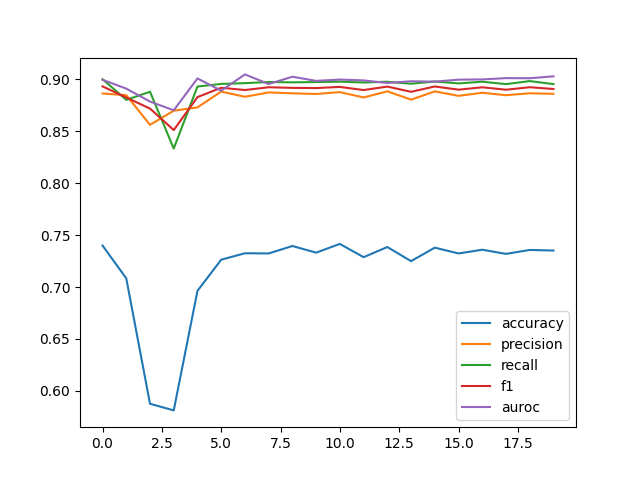
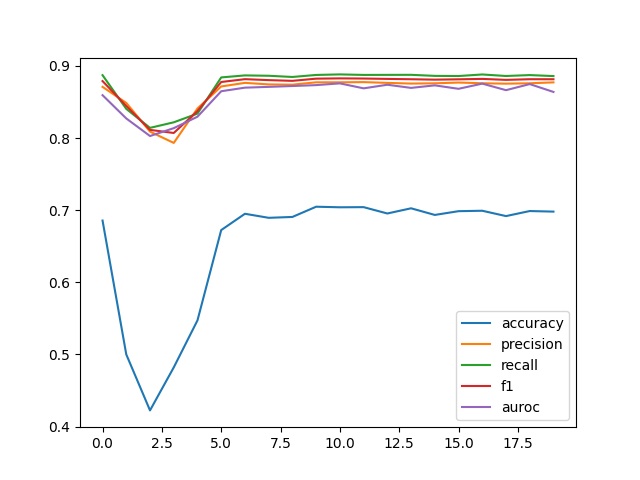
requirements.txt created and more plots

diff --git a/semisupervised/gnn.py b/semisupervised/gnn.py
@@ -13,8 +13,8 @@ class GNNq(nn.Module):
         opt_ = dict([('in', opt['num_feature']), ('out', opt['hidden_dim'])])
         self.m1 = GraphConvolution(opt_, adj)
 
-        # opt_ = dict([('in', opt['hidden_dim']), ('out', opt['hidden_dim'])])
-        # self.m3 = GraphConvolution(opt_, adj)
+        opt_ = dict([('in', opt['hidden_dim']), ('out', opt['hidden_dim'])])
+        self.m3 = GraphConvolution(opt_, adj)
 
         # opt_ = dict([('in', 2*opt['hidden_dim']), ('out', opt['hidden_dim'])])
         # self.m4 = GraphConvolution(opt_, adj)
@@ -28,16 +28,16 @@ class GNNq(nn.Module):
     def reset(self):
         self.m1.reset_parameters()
         self.m2.reset_parameters()
-        # self.m3.reset_parameters()
+        self.m3.reset_parameters()
         # self.m4.reset_parameters()
 
     def forward(self, x):
         x = F.dropout(x, self.opt['input_dropout'], training=self.training)
         x = self.m1(x)
         x = F.relu(x)
-        # x = F.dropout(x, self.opt['dropout'], training=self.training)
-        # x = self.m3(x)
-        # x = F.relu(x)
+        x = F.dropout(x, self.opt['dropout'], training=self.training)
+        x = self.m3(x)
+        x = F.relu(x)
         # x = F.dropout(x, self.opt['dropout'], training=self.training)
         # x = self.m4(x)
         # x = F.relu(x)
@@ -56,8 +56,8 @@ class GNNp(nn.Module):
         opt_ = dict([('in', opt['num_class']), ('out', opt['hidden_dim'])])
         self.m1 = GraphConvolution(opt_, adj)
 
-        # opt_ = dict([('in', opt['hidden_dim']), ('out', opt['hidden_dim'])])
-        # self.m3 = GraphConvolution(opt_, adj)
+        opt_ = dict([('in', opt['hidden_dim']), ('out', opt['hidden_dim'])])
+        self.m3 = GraphConvolution(opt_, adj)
 
         # opt_ = dict([('in', 2*opt['hidden_dim']), ('out', opt['hidden_dim'])])
         # self.m4 = GraphConvolution(opt_, adj)
@@ -71,16 +71,16 @@ class GNNp(nn.Module):
     def reset(self):
         self.m1.reset_parameters()
         self.m2.reset_parameters()
-        # self.m3.reset_parameters()
+        self.m3.reset_parameters()
         # self.m4.reset_parameters()
 
     def forward(self, x):
         x = F.dropout(x, self.opt['input_dropout'], training=self.training)
         x = self.m1(x)
         x = F.relu(x)
-        # x = F.dropout(x, self.opt['dropout'], training=self.training)
-        # x = self.m3(x)
-        # x = F.relu(x)
+        x = F.dropout(x, self.opt['dropout'], training=self.training)
+        x = self.m3(x)
+        x = F.relu(x)
         # x = F.dropout(x, self.opt['dropout'], training=self.training)
         # x = self.m4(x)
         # x = F.relu(x)
